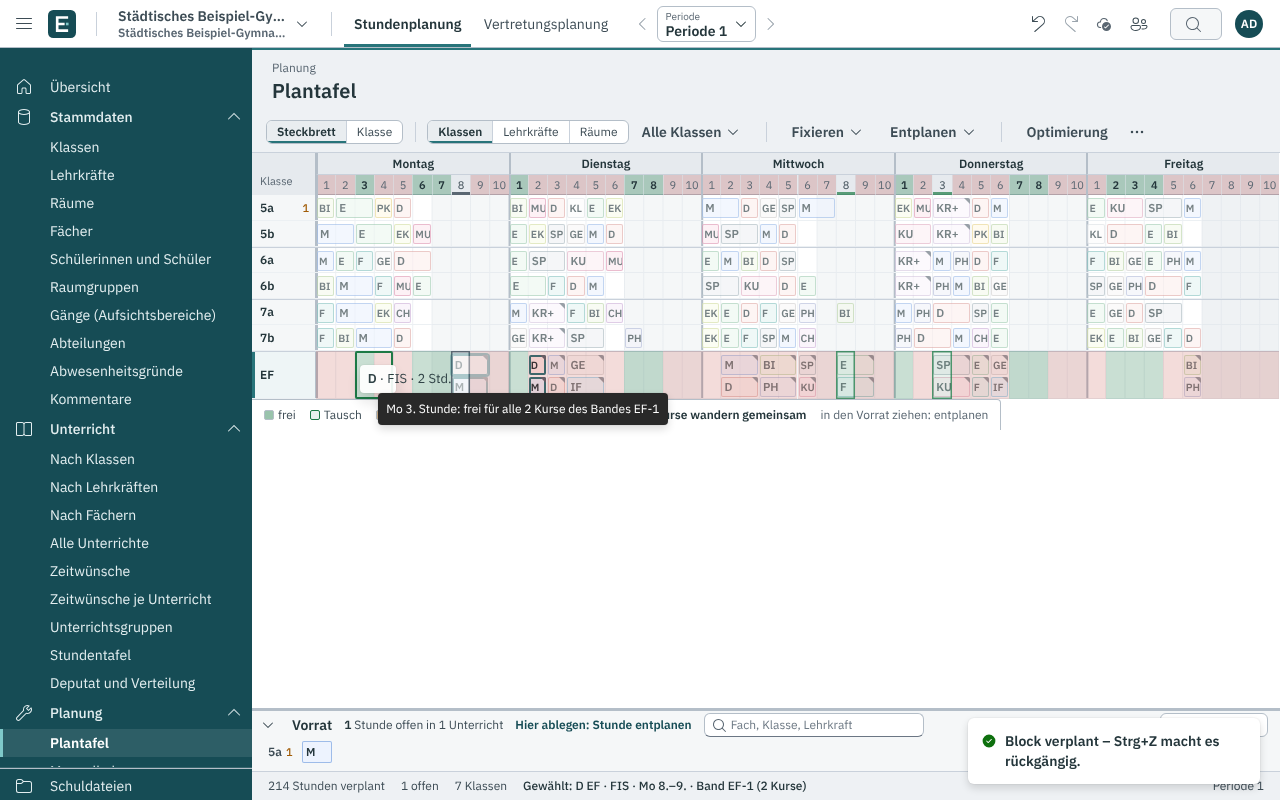
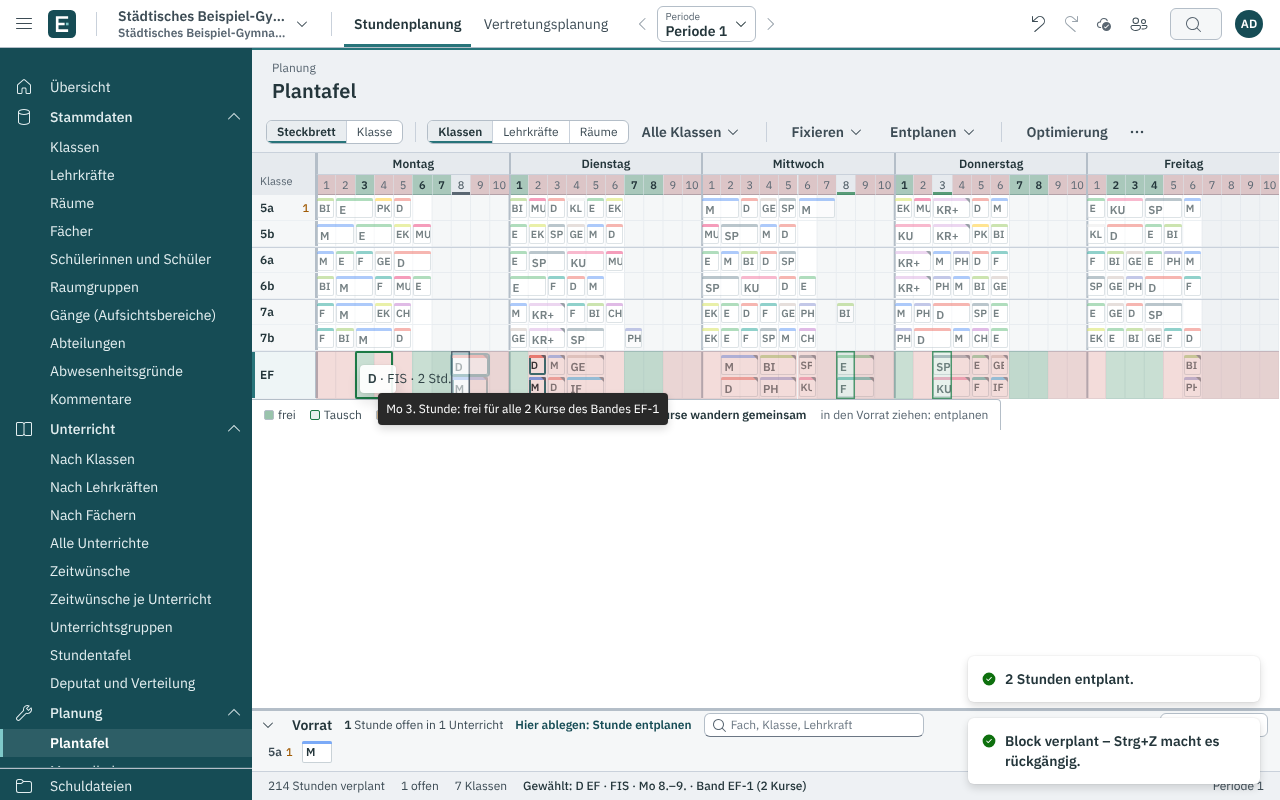
Studio-Plantafel: Karten nach Stundenkarte v7 (Fachfarbe als Streifen oben, neutrale Linie), Kopplungsecke ohne Überdeckung, Oberflächentest misst neu gezeichnete Karten robust; Bildschirmfotos und Handbuch

diff --git a/studio/client/src/module/planung/plantafel/plantafel.css b/studio/client/src/module/planung/plantafel/plantafel.css
@@ -1,6 +1,6 @@
 /* Plantafel der Stundenplanung (Steckbrett, Vorrat, Klasse mit verknüpften Plänen). Karten nach „Stundenkarte v7“
-   (design/DESIGN.md Abschnitt 10): nahezu eckig (Radius 2), keine Leiste links, neutral weiß mit feiner 1-px-Linie; nur mit Fachfarbe
-   leicht getönt (14 %) und die Linie in der Fachfarbe. Statusstreifen oben gibt es in der Planung nicht (keine Änderungen).
+   (design/DESIGN.md Abschnitt 10): nahezu eckig (Radius 2), keine Leiste links, weiß mit feiner neutraler 1-px-Linie; hat die Schule
+   Fachfarben, steht die Fachfarbe als 3-px-Streifen oben (keine Tönung der Fläche). Inhalt bei allen Karten gleich hoch eingerückt.
    Raster ruhig: Stundenlinien sehr hell, Tage durch 2-px-Linien getrennt, Kopf und Zeilenköpfe bleiben stehen. */
 .pt-flaeche { display: flex; flex-direction: column; flex: 1; min-height: 0; min-width: 0; }
 
@@ -9,7 +9,7 @@
   position: relative; flex: 1 1 auto; min-height: 120px; overflow: auto; outline: none; background: var(--colorNeutralBackground1);
   font-size: 12px; color: var(--colorNeutralForeground1); overscroll-behavior: contain;
   --pt-linie: color-mix(in srgb, var(--colorNeutralStroke3) 55%, transparent); --pt-tag-linie: var(--colorNeutralStroke1);
-  --pt-karte-linie: var(--up-karte-linie, #b7c2c8);
+  --pt-karte-linie: var(--up-karte-linie, #c9d2d7);
 }
 .pt-brett:focus-visible { box-shadow: inset 0 0 0 2px var(--colorStrokeFocus2); }
 .pt-kopf { position: sticky; top: 0; z-index: 6; height: 42px; background: var(--edo-bereich-kopf, var(--colorNeutralBackground3)); border-bottom: 1px solid var(--colorNeutralStroke1); }
@@ -63,16 +63,20 @@
   background: var(--colorNeutralBackground1); box-shadow: inset 0 0 0 1px var(--pt-karte-linie);
   font-size: 11.5px; line-height: 14px; color: var(--colorNeutralForeground1); transition: background-color 120ms;
 }
-.pt-chip[style*="--fachfarbe"] { background: color-mix(in srgb, var(--fachfarbe) 14%, var(--colorNeutralBackground1)); box-shadow: inset 0 0 0 1px color-mix(in srgb, var(--fachfarbe) 55%, var(--pt-karte-linie)); }
+.pt-chip, .pt-vchip, .pt-kchip { padding-top: 3px; }
+.pt-chip[style*="--fachfarbe"]::before, .pt-vchip[style*="--fachfarbe"]::before, .pt-kchip[style*="--fachfarbe"]::before,
+.pt-klasse .ra-eintrag[style*="--fachfarbe"]::before {
+  content: ''; position: absolute; left: 0; right: 0; top: 0; height: 3px; background: var(--fachfarbe);
+}
 .pt-chip.ziehbar { cursor: grab; }
 .pt-chip .f { font-weight: 600; white-space: nowrap; overflow: hidden; text-overflow: clip; display: flex; gap: 3px; align-items: baseline; }
 .pt-chip .f .w { font-weight: 500; font-size: 10px; color: var(--colorNeutralForeground3); }
 .pt-chip .z { font-size: 10.5px; color: var(--colorNeutralForeground2); white-space: nowrap; overflow: hidden; text-overflow: clip; letter-spacing: -0.01em; }
 .pt-chip.schmal { padding: 0 1px 0 2px; font-size: 10.5px; }
 .pt-chip:hover { background: var(--edo-karte-neutral-hover, var(--colorNeutralBackground1Hover)); }
-.pt-chip[style*="--fachfarbe"]:hover { background: color-mix(in srgb, var(--fachfarbe) 22%, var(--colorNeutralBackground1)); }
+.pt-chip.gekoppelt { padding-right: 4px; }
 .pt-chip.gekoppelt::after {
-  content: ''; position: absolute; top: 0; right: 0; width: 0; height: 0; border-style: solid; border-width: 0 6px 6px 0;
+  content: ''; position: absolute; top: 0; right: 0; width: 0; height: 0; border-style: solid; border-width: 0 5px 5px 0;
   border-color: transparent var(--colorNeutralForeground3) transparent transparent;
 }
 .pt-chip.fix { background-image: linear-gradient(var(--colorNeutralForeground3), var(--colorNeutralForeground3)); background-size: 4px 4px; background-position: right 3px bottom 3px; background-repeat: no-repeat; }
@@ -148,10 +152,9 @@
 .pt-vchips { display: flex; flex-wrap: wrap; gap: 3px; }
 .pt-vchip {
   position: relative; height: 22px; box-sizing: border-box; display: inline-flex; align-items: center; gap: 2px; padding: 0 3px 0 4px; margin: 0; border: none;
-  border-radius: 2px; overflow: hidden; background: var(--colorNeutralBackground1); box-shadow: inset 0 0 0 1px var(--up-karte-linie, #b7c2c8);
+  border-radius: 2px; overflow: hidden; background: var(--colorNeutralBackground1); box-shadow: inset 0 0 0 1px var(--up-karte-linie, #c9d2d7);
   font: inherit; font-size: 11.5px; color: var(--colorNeutralForeground1); cursor: grab; user-select: none; touch-action: none;
 }
-.pt-vchip[style*="--fachfarbe"] { background: color-mix(in srgb, var(--fachfarbe) 14%, var(--colorNeutralBackground1)); box-shadow: inset 0 0 0 1px color-mix(in srgb, var(--fachfarbe) 55%, var(--up-karte-linie, #b7c2c8)); }
 .pt-vchip .f { font-weight: 600; white-space: nowrap; overflow: hidden; flex: 1; text-align: left; }
 .pt-vchip .n { font-size: 10.5px; color: var(--colorNeutralForeground3); font-variant-numeric: tabular-nums; }
 .pt-vchip.gekoppelt::after { content: ''; position: absolute; top: 0; right: 0; border-style: solid; border-width: 0 6px 6px 0; border-color: transparent var(--colorNeutralForeground3) transparent transparent; }
@@ -173,9 +176,8 @@
 .pt-k-vfuss { padding: 8px 12px; border-top: 1px solid var(--colorNeutralStroke2); }
 .pt-kchip {
   position: relative; display: grid; grid-template-columns: 1fr auto; column-gap: 8px; padding: 5px 8px; border-radius: 2px; overflow: hidden;
-  background: var(--colorNeutralBackground1); box-shadow: inset 0 0 0 1px var(--up-karte-linie, #b7c2c8); cursor: grab; user-select: none; touch-action: none; font-size: 12px;
+  background: var(--colorNeutralBackground1); box-shadow: inset 0 0 0 1px var(--up-karte-linie, #c9d2d7); cursor: grab; user-select: none; touch-action: none; font-size: 12px;
 }
-.pt-kchip[style*="--fachfarbe"] { background: color-mix(in srgb, var(--fachfarbe) 14%, var(--colorNeutralBackground1)); box-shadow: inset 0 0 0 1px color-mix(in srgb, var(--fachfarbe) 55%, var(--up-karte-linie, #b7c2c8)); }
 .pt-kchip .f { font-weight: 600; font-size: 13px; }
 .pt-kchip .z { color: var(--colorNeutralForeground2); text-align: right; }
 .pt-kchip .l { grid-column: 1 / -1; color: var(--colorNeutralForeground3); font-size: 11px; }
@@ -191,7 +193,6 @@
 .pt-vk-kopf .bev { margin-left: auto; font-weight: 500; font-size: 12px; color: var(--colorNeutralForeground2); }
 .pt-vk.bevorzugt { border-style: dashed; }
 .pt-vk .ra { flex: 0 0 auto; overflow: visible; }
-.pt-klasse .ra.kompakt .ra-eintrag { padding-left: 4px; }
 .pt-vk .ra-gitter, .pt-vk .ra.kompakt .ra-gitter { min-width: 0; }
 
 /* Zielstufen im Klassenplan (Stundenplanraster: Klasse ziel-<stufe>) und in den verknüpften Plänen (pt-zf-<stufe>) */
@@ -202,9 +203,11 @@
 .pt-klasse .ra-feld.ziel-hart, .pt-klasse .ra-feld.pt-zf-hart { background: color-mix(in srgb, var(--up-entfall) 14%, transparent); box-shadow: none; }
 .pt-klasse .ra-feld.ziel-eigen, .pt-klasse .ra-feld.pt-zf-eigen { box-shadow: inset 0 0 0 1.5px var(--colorNeutralForeground3); }
 .pt-klasse .ra-feld.drueber { box-shadow: inset 0 0 0 2px var(--colorBrandStroke1) !important; }
-/* Stundenkarte v7 im Klassenplan der Plantafel: Radius 2, keine Leiste, feine 1-px-Linie; Fachfarbe nur als Tönung und Linie */
-.pt-klasse .ra-eintrag { border: none; border-radius: 2px; padding-left: 6px; box-shadow: inset 0 0 0 1px var(--up-karte-linie, #b7c2c8); background: var(--colorNeutralBackground1); }
-.pt-klasse .ra-eintrag[style*="--fachfarbe"] { background: color-mix(in srgb, var(--fachfarbe) 14%, var(--colorNeutralBackground1)); box-shadow: inset 0 0 0 1px color-mix(in srgb, var(--fachfarbe) 55%, var(--up-karte-linie, #b7c2c8)); }
+/* Stundenkarte v7 im Klassenplan der Plantafel: Radius 2, keine Leiste, feine 1-px-Linie; Fachfarbe als 3-px-Streifen oben */
+.pt-klasse .ra-eintrag, .pt-klasse .ra-eintrag[style*="--fachfarbe"] {
+  border: none; border-radius: 2px; padding: 6px 6px 3px 6px; box-shadow: inset 0 0 0 1px var(--up-karte-linie, #c9d2d7); background: var(--colorNeutralBackground1);
+}
+.pt-klasse .ra.kompakt .ra-eintrag { padding: 4px 3px 1px 4px; }
 .pt-klasse .ra-eintrag.gewaehlt, .pt-klasse .ra-eintrag.markiert { box-shadow: inset 0 0 0 1px var(--colorBrandStroke1), 0 0 0 2px var(--colorBrandStroke1); }
 
 @media (prefers-reduced-motion: reduce) {
@@ -212,4 +215,4 @@
 }
 
 /* Fachfarben ausgeschaltet (Ansicht): neutrale Karten im Klassenplan und in den verknüpften Plänen */
-.pt-klasse.ohne-farben .ra-eintrag[style*="--fachfarbe"] { background: var(--colorNeutralBackground1); box-shadow: inset 0 0 0 1px var(--up-karte-linie, #b7c2c8); }
+.pt-klasse.ohne-farben .ra-eintrag[style*="--fachfarbe"]::before { display: none; }

diff --git a/docs/HANDBUCH.md b/docs/HANDBUCH.md
@@ -391,7 +391,8 @@ oben – so sehen Sie, wann die Lehrkraft frei ist und ob der Wunschraum passt.
 **Werkzeuge.** *Fixieren* (gewählte Stunde, alle Stunden der Zeile bzw. lösen), *Entplanen* (gewählte Stunde, alle Stunden der Zeile
 mit Rückfrage – fixierte bleiben), *Optimierung* (automatische Planung, Abschnitt 5) und *Weitere* (…): Karten automatisch, immer
 zwei bzw. eine Zeile, Fachfarben, Vorrat zeigen, Diagnose, Zeitwünsche, alle Stunden fixieren bzw. lösen, alle Stunden entplanen.
-Die Karten sind schlicht (fast eckig, weiß mit feiner Linie); Fachfarben erscheinen nur, wenn sie in den Stammdaten der Fächer stehen. Jede Änderung ist eine Rückgängig-Stufe (Strg+Z, Strg+Y bzw. Kopfleiste).
+Die Karten sind schlicht (fast eckig, weiß mit feiner Linie); Fachfarben erscheinen nur, wenn sie in den Stammdaten der Fächer stehen –
+dann als schmaler Streifen oben an der Karte. Jede Änderung ist eine Rückgängig-Stufe (Strg+Z, Strg+Y bzw. Kopfleiste).
 
 ![Plantafel – Steckbrett](../studio/docs/bilder/plantafel-1440-steckbrett.png)
 

diff --git a/studio/README.md b/studio/README.md
@@ -65,8 +65,8 @@ Die Oberfläche ist eine React-Anwendung (TypeScript, Fluent UI v9) in `studio/c
     auch wenn er dort noch nicht liegt), alle mit derselben Färbung beim Ziehen.
   * Werkzeuge: *Fixieren* und *Entplanen* (gewählte Stunde, ganze Zeile mit Rückfrage), *Optimierung* (automatische Planung) und
     *Weitere* (…): Kartendichte, Fachfarben, Vorrat, Diagnose, Zeitwünsche, alle fixieren/lösen, alle entplanen. Karten nach
-    Stundenkarte v7: Radius 2, keine Leiste, neutral weiß mit feiner Linie; Fachfarben nur, wenn sie in den Stammdaten stehen (dann
-    leicht getönt). Rückgängig/Wiederholen in der Kopfleiste (Strg+Z/Strg+Y).
+    Stundenkarte v7: Radius 2, keine Leiste, weiß mit feiner neutraler Linie; Fachfarben nur, wenn sie in den Stammdaten stehen (dann
+    als 3-px-Streifen oben). Rückgängig/Wiederholen in der Kopfleiste (Strg+Z/Strg+Y).
 
   | Steckbrett (1440 × 900) | Ziehen aus dem Vorrat | Klasse mit verknüpften Plänen |
   |---|---|---|
